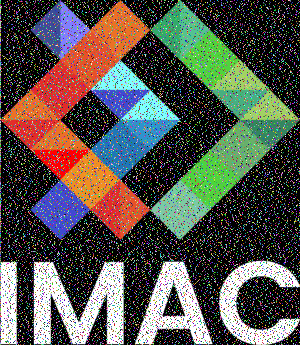
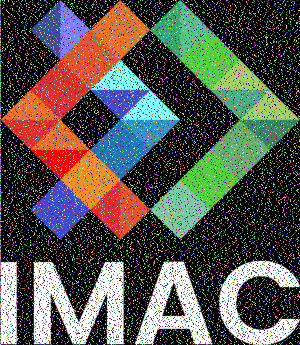
vortex et tramage (+n&b et glitch)

diff --git a/src/main_sousada.cpp b/src/main_sousada.cpp
@@ -3,6 +3,7 @@
 #include <cmath>    //a mettre en commentaire pour Sousada
 #include <math.h>
 #include <corecrt_math_defines.h>   //a mettre en commentaire pour Lison
+#include <glm/gtx/matrix_transform_2d.hpp>
 
 
 void GreenOnly(sil::Image& image)
@@ -20,6 +21,18 @@ void ChannelsSwap(sil::Image& image)
     for (glm::vec3& color : image.pixels())
     {
         std::swap(color.r, color.b);
+    }
+}
+
+
+void BlackAndWhite(sil::Image& image)
+{
+    for (glm::vec3& color : image.pixels())
+    {
+        float gris = (color.r + color.g + color.b)/3;
+        color.r = gris;
+        color.b = gris;
+        color.g = gris;
     }
 }
 
@@ -241,48 +254,124 @@ void Rosace(sil::Image& image, int centerX, int centerY)
     }
 }
 
-sil::Image copie_image_sousada(sil::Image& image, sil::Image const& logo, int debut_i, int debut_j)
-{
-    for(int i {0}; i<logo.width(); i++)
-    {
-        for(int j {0}; j<logo.height(); j++)
-        {
-            image.pixel(i+debut_i, j+debut_j) = logo.pixel(i, j);
-        }
-    }
-    return image;
-}
-
-void Mosaique(sil::Image& logo)
-{
-    // sil::Image imageReduite(image.width()*reduction, image.height()*reduction);
-
-    // for (int y{0}; y < image.height(); y++) 
-    // {
-    //     for (int x{0}; x < image.width(); x++) 
-    //     {
-            
-    //     }
-    // }
-    // mosaique.save("output_s/mosaique.png");
-
-    sil::Image image{logo.width()*5, logo.height()*5};
-    int i = 0;
-    for(int a {0}; a<5; a++){
-        int j = 0;
-        for(int b {0}; b<5; b++){
-            copie_image_sousada(image, logo, i, j);
-            j += logo.height();
-        }
-        i += logo.width();
-    }
-    image.save("output_s/mosaique.png");
-}
-
 
 void Glitch(sil::Image& image)
 {
-    //
+    int nb_rectangles_a_echanger = 50;
+
+    for (int i{0}; i < nb_rectangles_a_echanger; i++) {
+        // Coordonnées rectangle01
+        int x1 = random_int(0, image.width() - 1 - 50);
+        int y1 = random_int(0, image.height() - 1 - 10);
+        int width1 = random_int(10, 50);
+        int height1 = random_int(5, 10);
+
+        // Coordonnées rectangle02
+        int x2 = random_int(0, image.width() - 1 - 50);
+        int y2 = random_int(0, image.height() - 1 - 10);
+        int width2 = random_int(10, 50);
+        int height2 = random_int(5, 10);
+
+        // Echange rectangles
+        for (int dy{0}; dy < height1; dy++) {
+            for (int dx{0}; dx < width1; dx++) {
+                int rectangle01_X = x1 + dx;
+                int rectangle01_Y = y1 + dy;
+
+                int rectangle02_X = x2 + dx;
+                int rectangle02_Y = y2 + dy;
+
+                std::swap(image.pixel(rectangle01_X, rectangle01_Y), image.pixel(rectangle02_X, rectangle02_Y));
+            }
+        }
+    }
+}
+
+
+glm::vec2 rotated(glm::vec2 point, glm::vec2 center_of_rotation, float angle)
+{
+    return glm::vec2{glm::rotate(glm::mat3{1.f}, angle) * glm::vec3{point - center_of_rotation, 0.f}} + center_of_rotation;
+}
+
+void Vortex(sil::Image& image)
+{
+    // //tentative de vortex
+    // float centerX = static_cast<float>(image.width()) / 2.0f;
+    // float centerY = static_cast<float>(image.height()) / 2.0f;
+
+    // for (int y = 0; y < image.height(); y++) {
+    //     for (int x = 0; x < image.width(); x++) {
+            
+    //         float distanceX = static_cast<float>(x) - centerX;
+    //         float distanceY = static_cast<float>(y) - centerY;
+
+    //         float angle = atan2(distanceY, distanceX);
+
+    //         int rotatedX = static_cast<int>(centerX + cos(angle) * distanceX - sin(angle) * distanceY);
+    //         int rotatedY = static_cast<int>(centerY + sin(angle) * distanceX + cos(angle) * distanceY);
+
+    //         rotatedX = std::max(0, std::min(image.width() - 1, rotatedX));
+    //         rotatedY = std::max(0, std::min(image.height() - 1, rotatedY));
+
+    //         image.pixel(rotatedX, rotatedY) = image.pixel(x, y);
+    //     }
+    // }
+
+    
+    glm::vec2 center{image.width() / 2.f, image.height() / 2.f};
+
+    float vortexFactor = 0.2f;
+
+    for (int y = 0; y < image.height(); y++) {
+        for (int x = 0; x < image.width(); x++) {
+            
+            glm::vec2 offset{x - center.x, y - center.y};
+
+            float distance = glm::length(offset);
+            float angle = distance * vortexFactor;
+
+            glm::vec2 rotatedOffset = rotated(offset, center, angle);
+
+            int rotatedX = static_cast<int>(rotatedOffset.x + center.x);
+            int rotatedY = static_cast<int>(rotatedOffset.y + center.y);
+
+            rotatedX = glm::clamp(rotatedX, 0, image.width() - 1);
+            rotatedY = glm::clamp(rotatedY, 0, image.height() - 1);
+
+            image.pixel(x, y) = image.pixel(rotatedX, rotatedY);
+        }
+    }
+}
+
+
+
+void Dithering(sil::Image& image)
+{
+    const int bayer_n = 4;
+    float bayer_matrix_4x4[][bayer_n] = {
+    {    -0.5,       0,  -0.375,   0.125 },
+    {    0.25,   -0.25,   0.375, - 0.125 },
+    { -0.3125,  0.1875, -0.4375,  0.0625 },
+    {  0.4375, -0.0625,  0.3125, -0.1875 },
+    };
+
+    for (int y = 0; y < image.height(); y++) {
+        //float orig_color = static_cast<float>(y) / image.height();;
+
+        for (int x = 0; x < image.width(); x++) {
+            float orig_color = image.pixel(x, y).r;
+            float color_result = 0.f;
+            float bayer_value = bayer_matrix_4x4[y % bayer_n][x % bayer_n];
+            float output_color = orig_color + (2 * bayer_value);
+
+            if (output_color > 0.5) {
+                color_result = 1.f;
+            }
+
+            glm::vec3 Color(color_result);
+            image.pixel(x, y) = Color;
+        }
+    }
 }
 
 
@@ -300,6 +389,13 @@ void main_sousada()
         sil::Image image{"images/logo.png"};
         ChannelsSwap(image);
         image.save("output_s/echange_canaux.png");
+    }
+
+    {
+        //EXO: Noir et blanc
+        sil::Image image{"images/logo.png"};
+        BlackAndWhite(image);
+        image.save("output_s/noir_et_blanc.png");
     }
 
     {
@@ -382,15 +478,23 @@ void main_sousada()
     }
 
     {
-        //EXO : Mosaique
-        sil::Image logo{"images/logo.png"};
-        Mosaique(logo);
+        //EXO : Glitch
+        sil::Image image{"images/logo.png"};
+        Glitch(image);
+        image.save("output_s/glitch.png");
     }
 
     {
-        //EXO : Glitch
+        //EXO : Vortex
         sil::Image image{"images/logo.png"};
+        Vortex(image);
+        image.save("output_s/vortex.png");
+    }
 
-        image.save("output_s/glitch.png");
+    {
+        //EXO : Tramage
+        sil::Image image{"images/photo.jpg"};
+        Dithering(image);
+        image.save("output_s/tramage.jpg");
     }
 }
